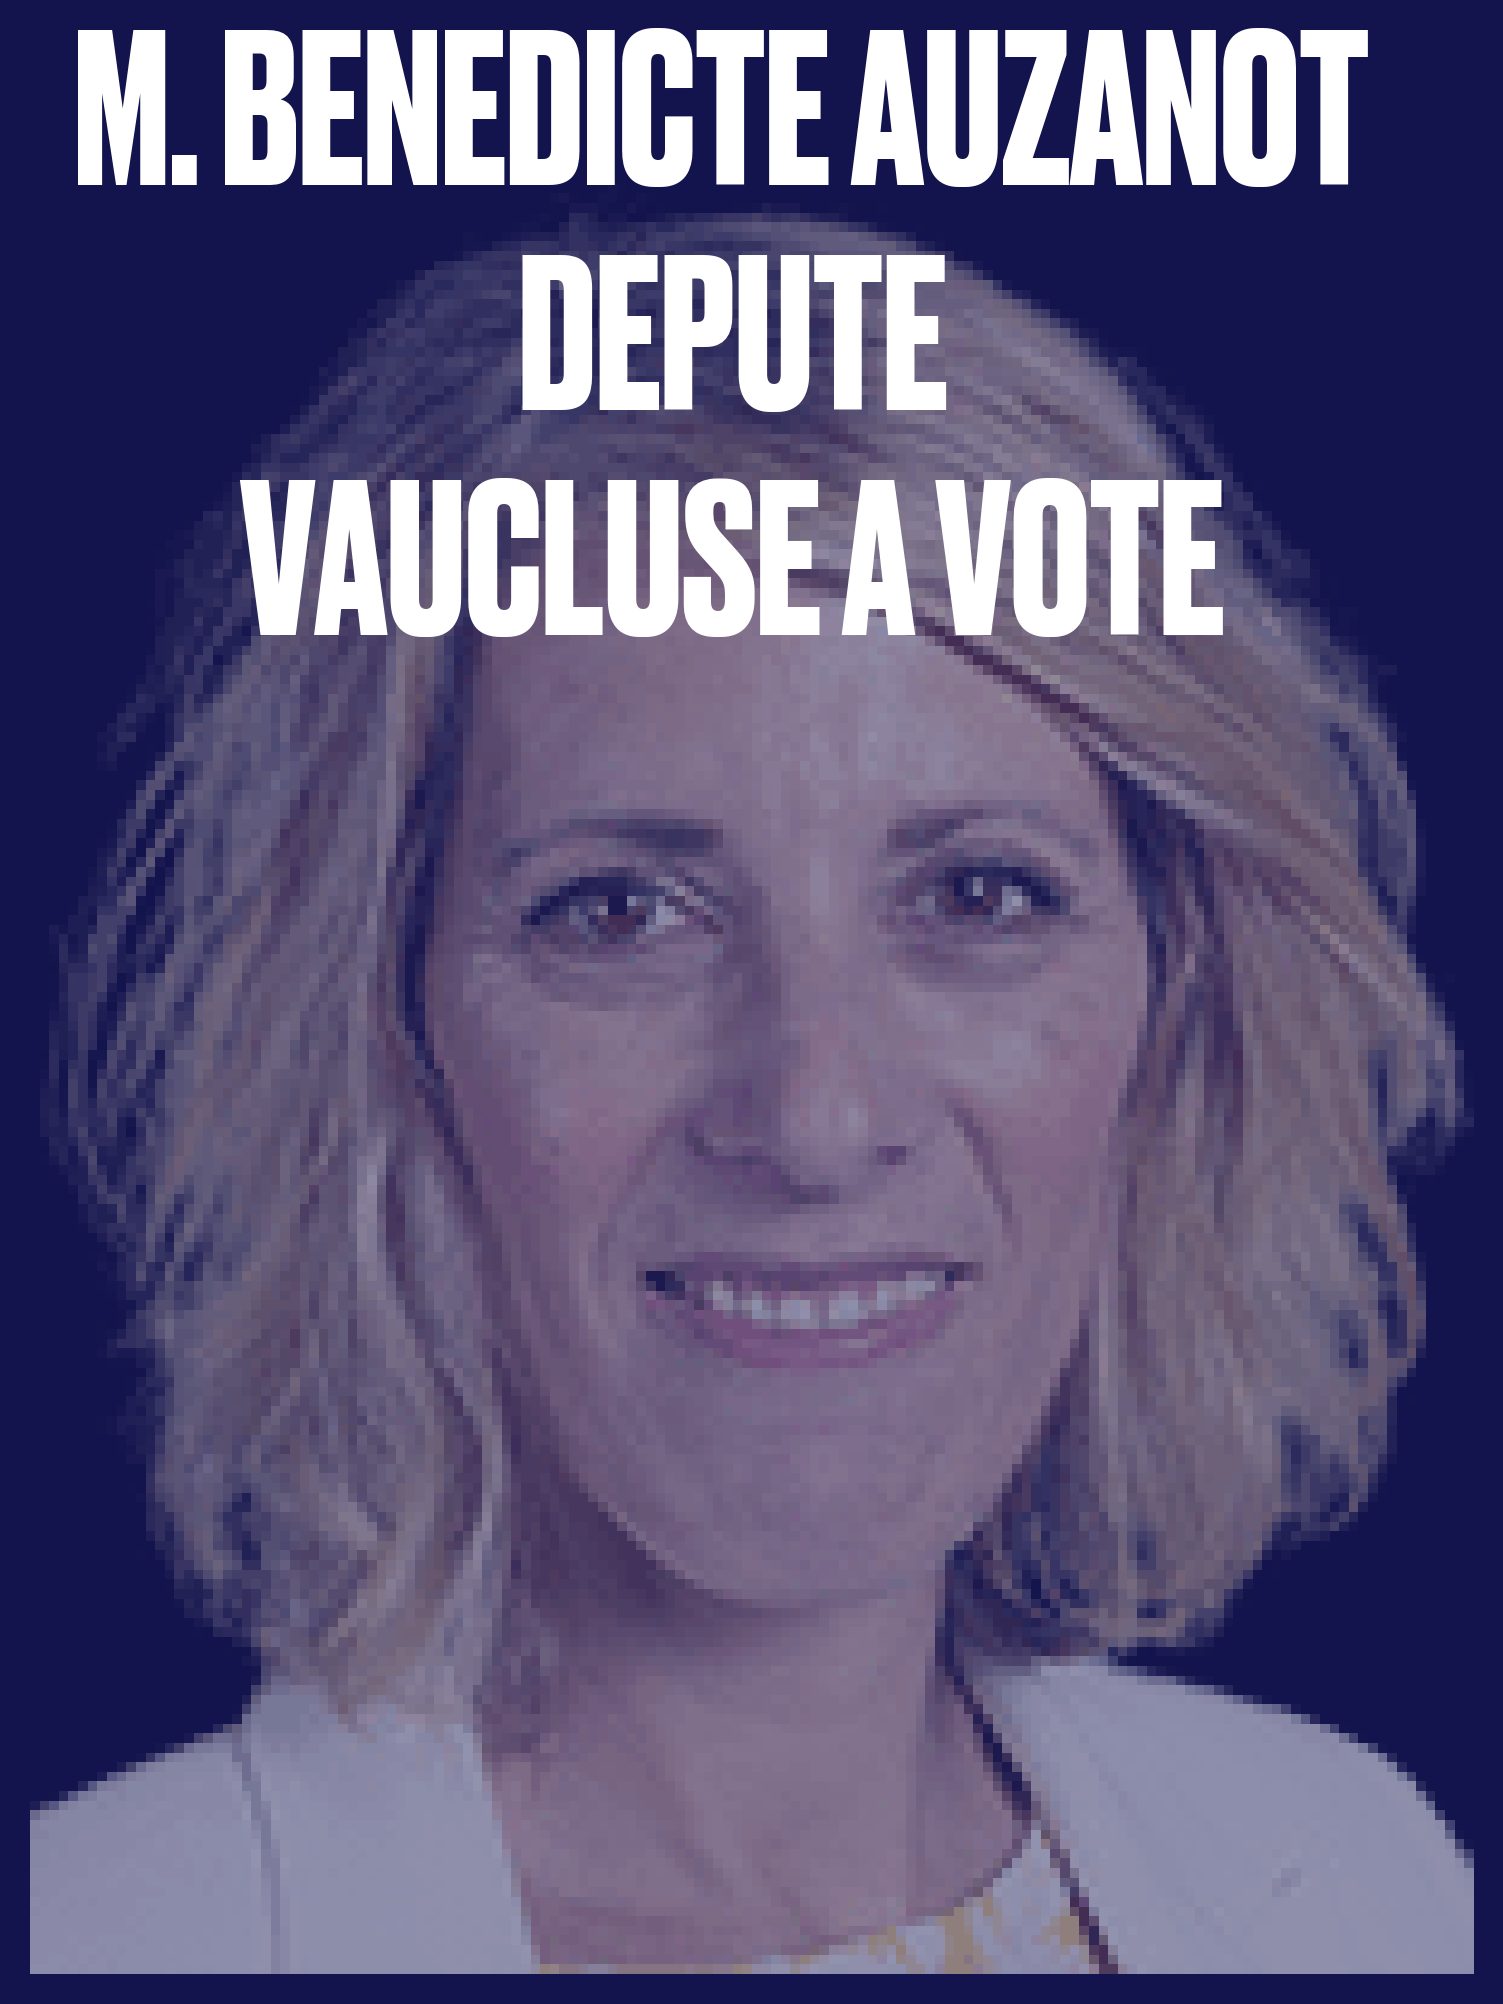
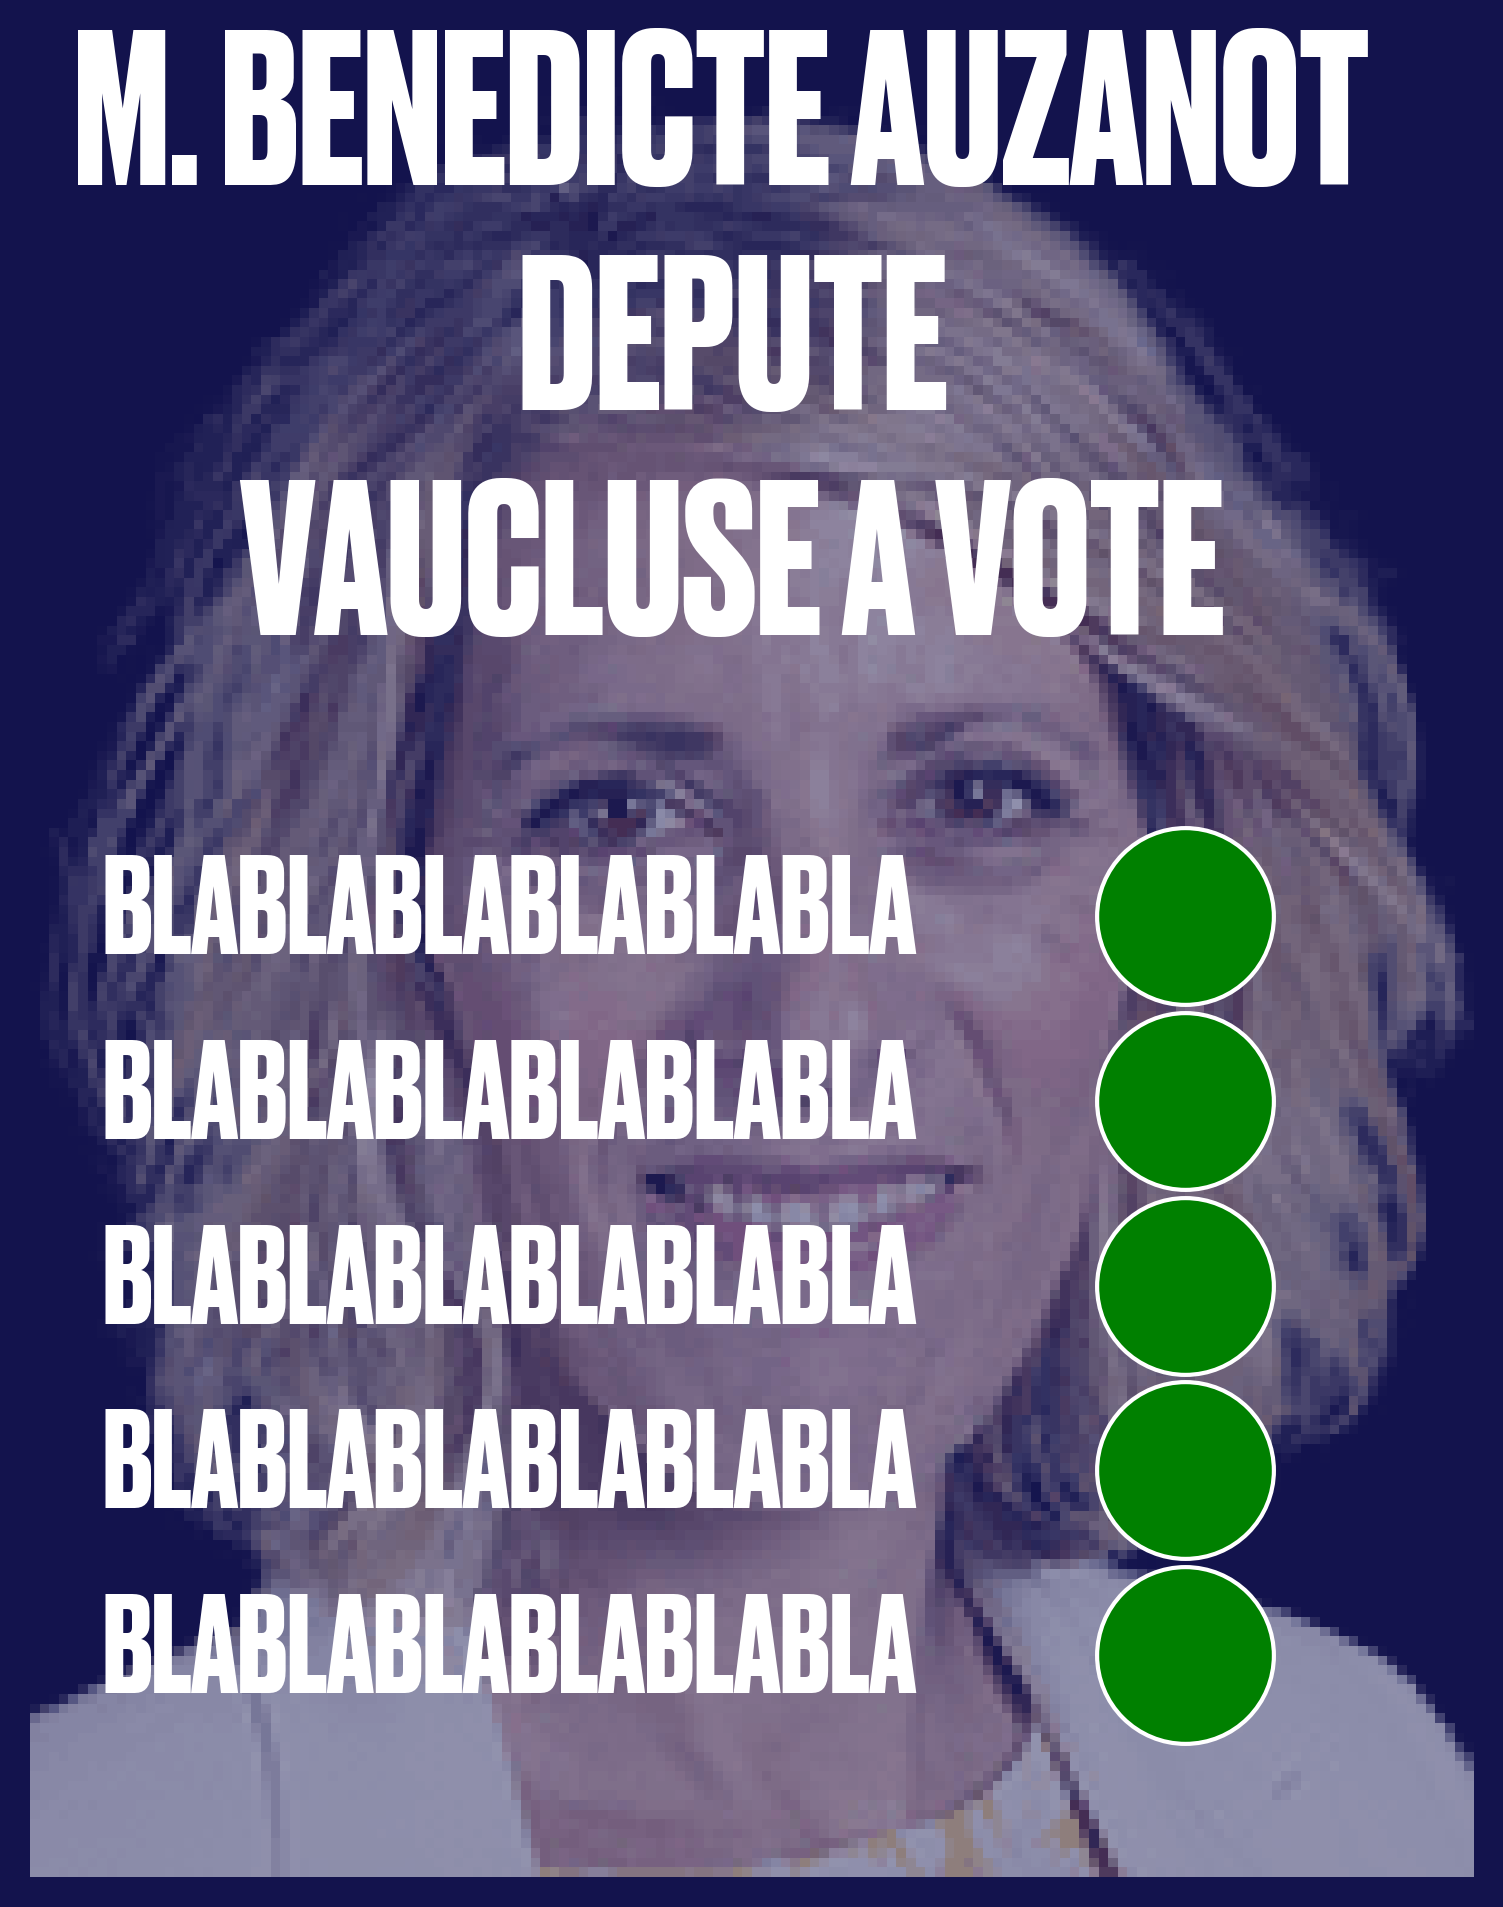
Add votes list and green/red circles

diff --git a/poster_deputees_RN.py b/poster_deputees_RN.py
@@ -26,6 +26,9 @@ background_color = np.array([0.075, 0.075, 0.3])  # Dark blue
 fig_width = 8
 fig_height = 8
 
+x_pos_text = 0.05
+x_pos_cicles = 0.8
+
 big_title = "Mon député RN,\n cette année c'était...".upper()
 # font_props = {'family': 'monospace', 'style': 'italic', 'weight': 'bold'}
 # Load the "Trial Bold" font
@@ -56,11 +59,23 @@ for deputy_id, deputy_name, deputy_const in zip(first_2_deputy_ids, first_2_depu
 
     # Add the big title
     big_title_André = unidecode(f"M. {deputy_name}\n député\n {deputy_const} a voté".upper())
-    fig.suptitle(big_title_André, fontsize=50, fontweight='bold', color='white', fontproperties=trial_bold_font, y=0.92)
+    fig.suptitle(big_title_André, fontsize=50, fontweight='bold', color='white', fontproperties=trial_bold_font, y=0.88)
 
     # Plot the image
     ax.imshow(image_array.astype(np.uint8),alpha=.55)
     # ax.set_title(f"Deputy ID: {deputy_id}", fontsize=16)
+    # Add new lines of text
+    nb_votes = 5
+    ax.text(x_pos_text, nb_votes*0.1, "Blablablablablabla".upper(), fontsize=32, color="white", transform=ax.transAxes, fontproperties=trial_bold_font)
+    ax.scatter(x_pos_cicles, nb_votes*0.1+0.02, s=1800, c="green", marker="o", transform=ax.transAxes, linewidths=1, edgecolors="white")
+    ax.text(x_pos_text, nb_votes*0.1-0.1, "Blablablablablabla".upper(), fontsize=32, color="white", transform=ax.transAxes, fontproperties=trial_bold_font)
+    ax.scatter(x_pos_cicles, nb_votes*0.1-0.1+0.02, s=1800, c="green", marker="o", transform=ax.transAxes, linewidths=1, edgecolors="white")
+    ax.text(x_pos_text, nb_votes*0.1-0.2, "Blablablablablabla".upper(), fontsize=32, color="white", transform=ax.transAxes, fontproperties=trial_bold_font)
+    ax.scatter(x_pos_cicles, nb_votes*0.1-0.2+0.02, s=1800, c="green", marker="o", transform=ax.transAxes, linewidths=1, edgecolors="white")
+    ax.text(x_pos_text, nb_votes*0.1-0.3, "Blablablablablabla".upper(), fontsize=32, color="white", transform=ax.transAxes, fontproperties=trial_bold_font)
+    ax.scatter(x_pos_cicles, nb_votes*0.1-0.3+0.02, s=1800, c="green", marker="o", transform=ax.transAxes, linewidths=1, edgecolors="white")
+    ax.text(x_pos_text, nb_votes*0.1-0.4, "Blablablablablabla".upper(), fontsize=32, color="white", transform=ax.transAxes, fontproperties=trial_bold_font)
+    ax.scatter(x_pos_cicles, nb_votes*0.1-0.4+0.02, s=1800, c="green", marker="o", transform=ax.transAxes, linewidths=1, edgecolors="white")
     ax.axis("off")
 
     # Save the image
